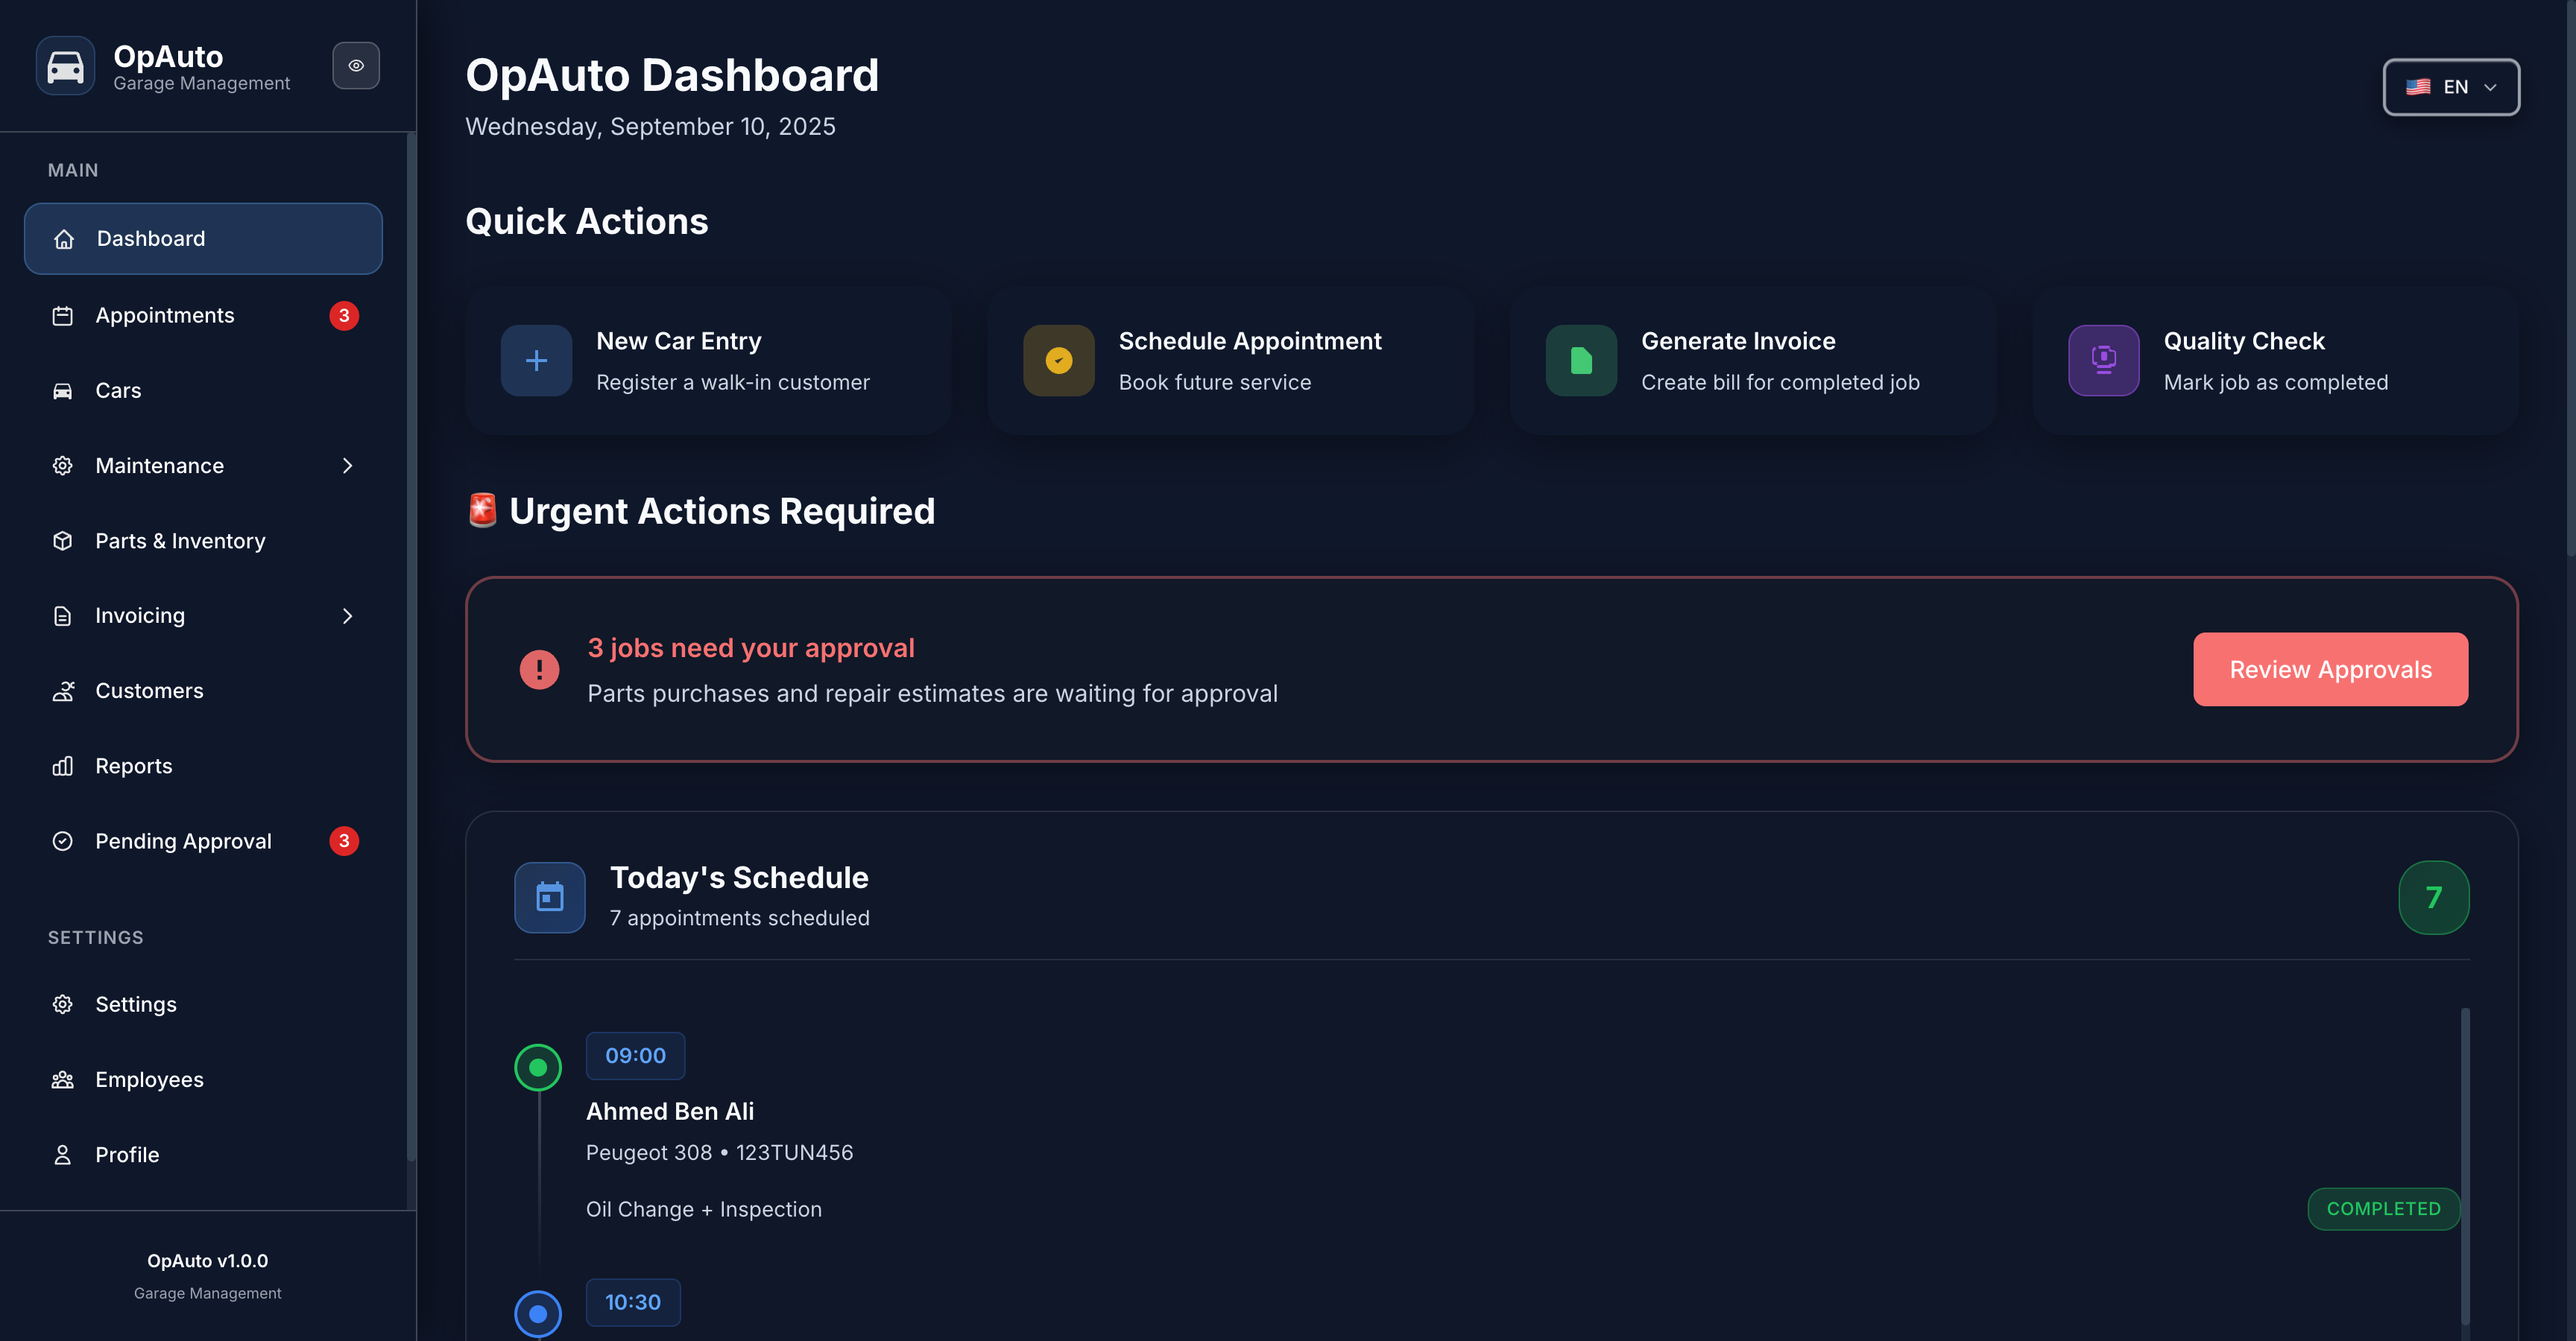
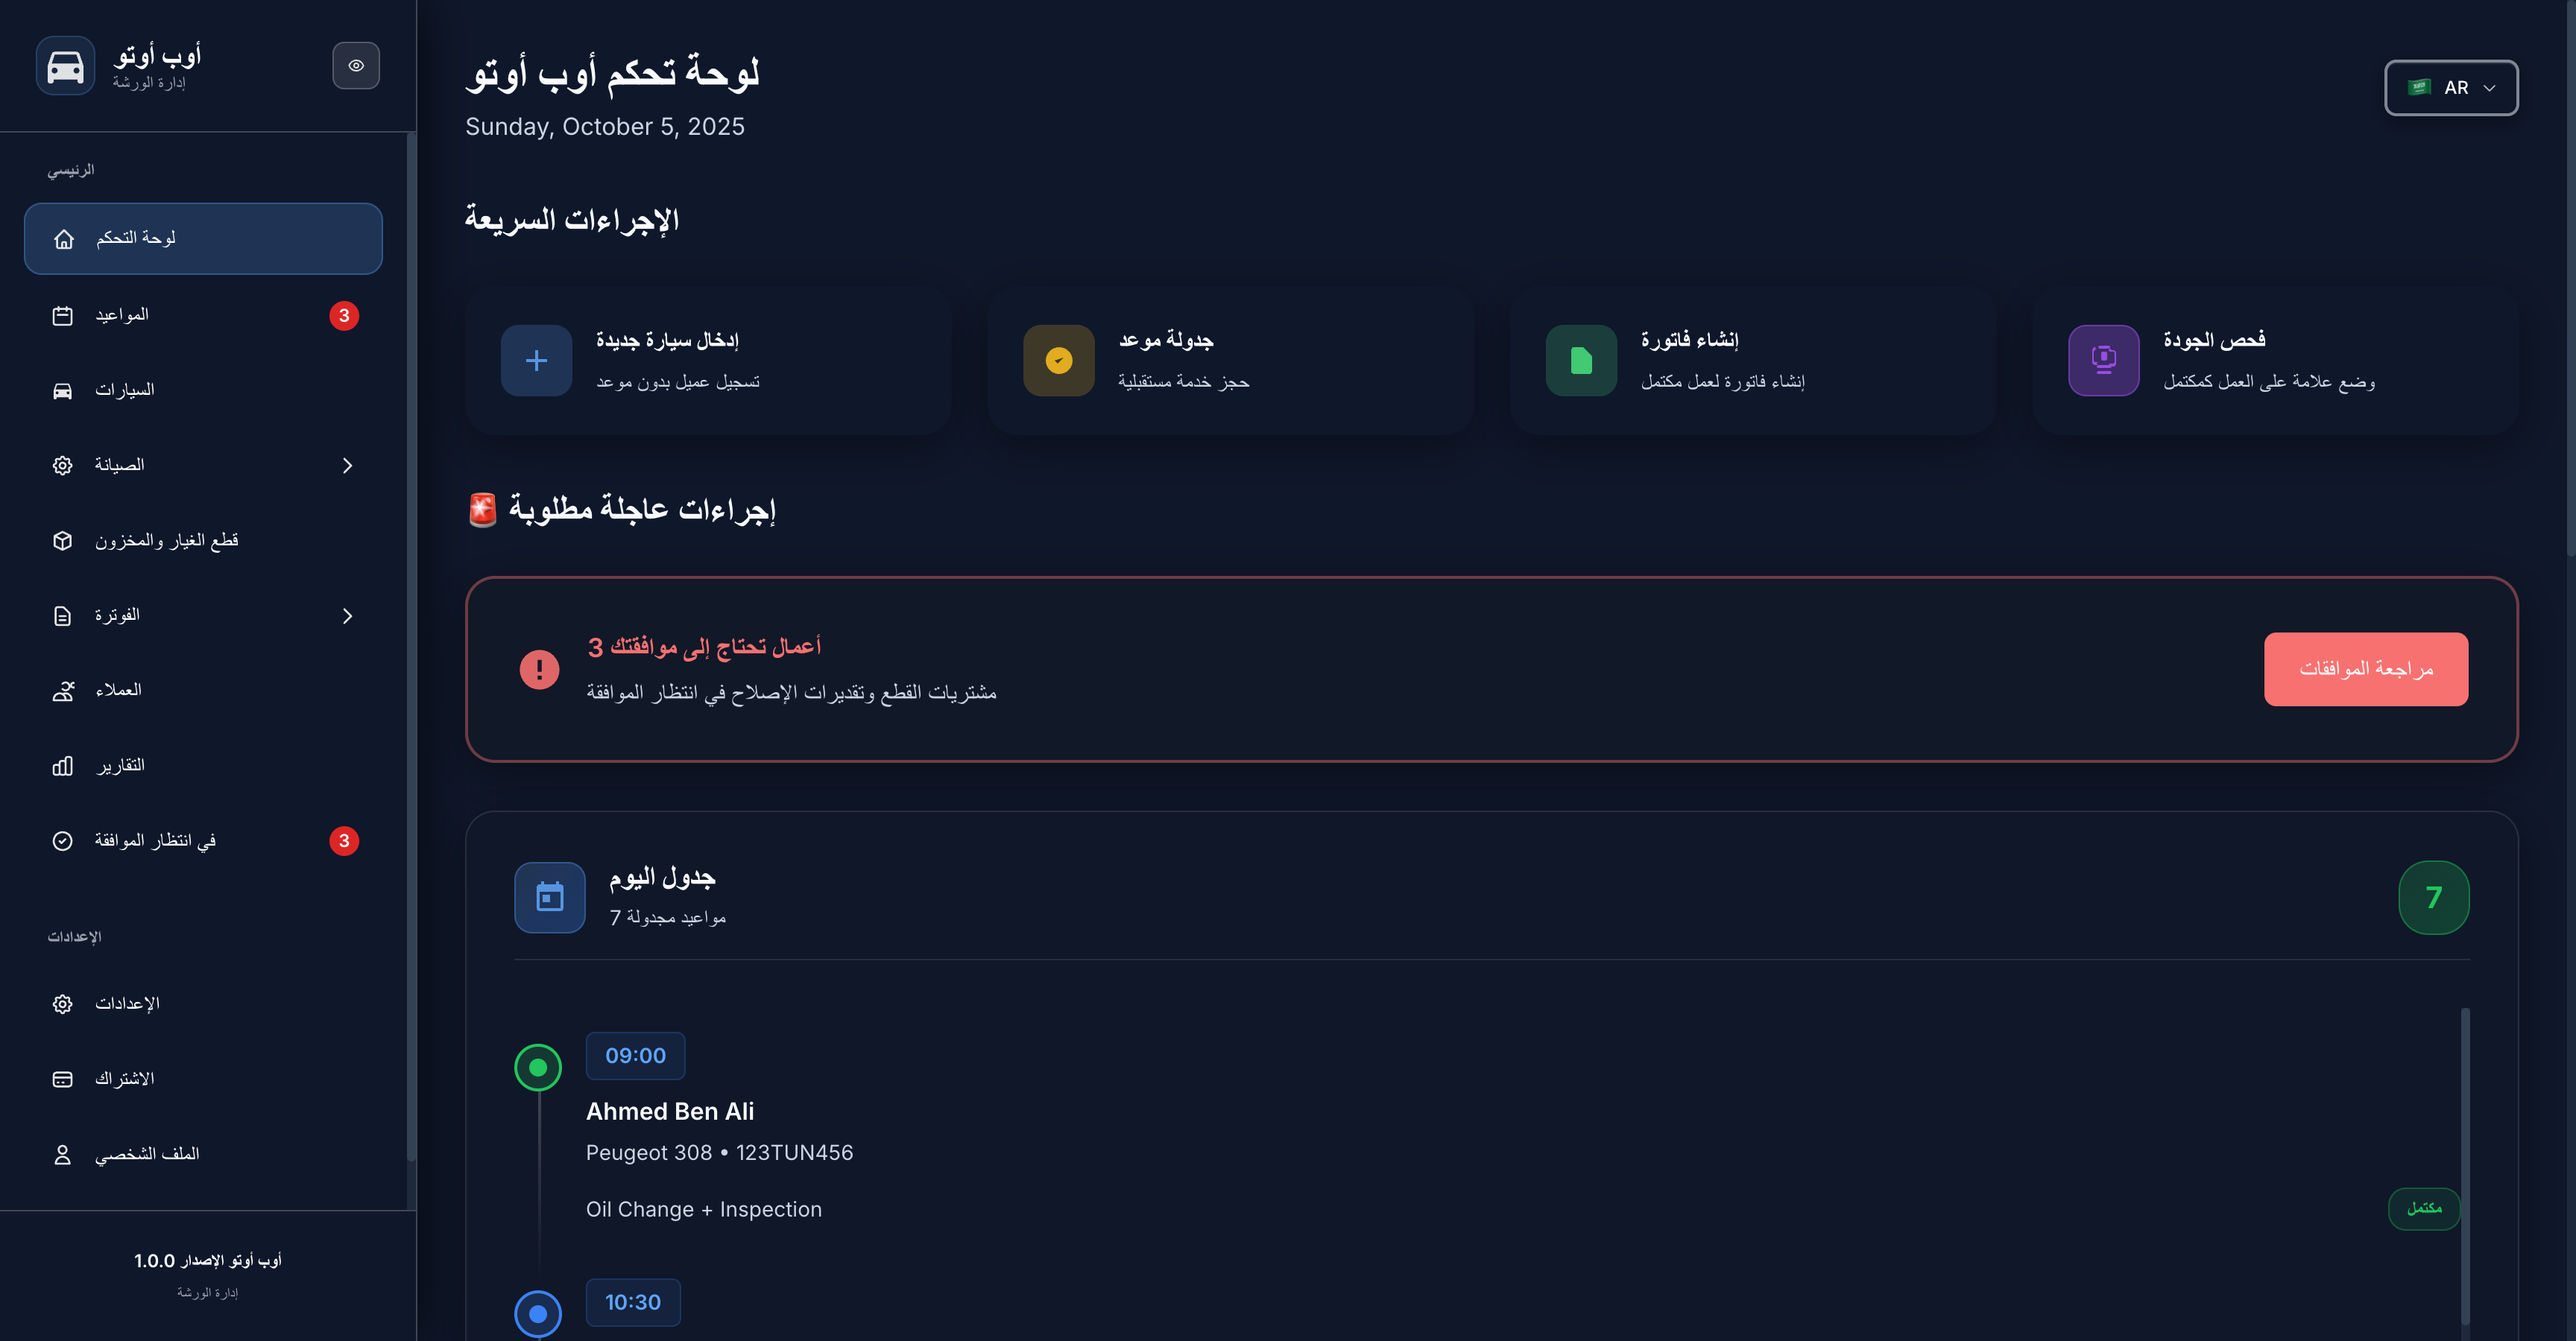
docs: update README with tier-based features and new screenshots
- Add subscription tier structure (Solo, Starter, Professional)
- Include annual pricing for each tier
- Update feature list to show tier-specific capabilities
- Refresh screenshots with Arabic UI
- Reorganize features into core capabilities section

🤖 Generated with [Claude Code](https://claude.com/claude-code)

diff --git a/README.md b/README.md
@@ -67,82 +67,107 @@
 
 ## ✨ Features
 
-### 🏠 **Intelligent Dashboard**
-- **Real-time metrics** - Live garage performance indicators
-- **Today's schedule** - Complete appointment timeline
-- **Active job monitoring** - Progress tracking with visual indicators
-- **Quick actions** - One-click access to common tasks
-- **Urgent alerts** - Approval requests and critical notifications
+OpAuto offers three subscription tiers to match your garage's needs:
 
-### 🚗 **Vehicle Management**
-- **Complete car profiles** - Registration with customer linking
-- **Service history** - Comprehensive maintenance records
-- **Status tracking** - Up-to-date, due soon, overdue indicators
-- **Smart filtering** - By make, model, status, and customer
-- **Maintenance scheduling** - Direct appointment booking
+### 🔵 **SOLO Tier** - 500 TND/year
+*Perfect for independent mechanics and single-owner garages*
 
-### 🔧 **Maintenance Operations**
-- **Job lifecycle management** - From creation to completion
-- **Multi-status workflow** - Waiting, in-progress, approval, completed
-- **Progress tracking** - Real-time job completion percentages
-- **Photo attachments** - Visual documentation support
-- **Priority levels** - Low, medium, high, urgent classification
+- ✅ **1 user account** - Owner-only access
+- ✅ **Up to 50 cars** in database
+- ✅ **Unlimited appointments** - Full scheduling system
+- ✅ **Text-based maintenance logs** - Service tracking
+- ✅ **Simple cash invoicing** - Basic billing
+- ✅ **Browser notifications** - Real-time alerts
+- ✅ **Basic reporting** - Daily/weekly summaries
+- ✅ **Mobile responsive interface**
+- ✅ **Multilingual support** - English, French, Arabic with RTL
 
-### 📅 **Appointment System**
-- **Smart calendar** - Daily, weekly, monthly views
-- **Touch-friendly scheduling** - Mobile-optimized interface
-- **Mechanic assignment** - Resource allocation tracking
-- **Status management** - Scheduled, in-progress, completed, delayed
-- **Swipe gestures** - Mobile navigation support
+---
 
-### 📦 **Inventory Management**
-- **Smart stock tracking** - Real-time inventory levels
-- **Low stock alerts** - Automated reorder notifications
-- **Category organization** - Engine, transmission, brakes, etc.
-- **Usage analytics** - Most used parts tracking
-- **Supplier management** - Vendor information and performance
+### 🟢 **STARTER Tier** ⭐ *Most Popular* - 2,000 TND/year
+*Ideal for small garages with 1-3 employees*
 
-### 🧾 **Financial Management**
-- **Professional invoicing** - Automated bill generation
-- **Multi-payment support** - Cash, card, bank transfer, check
-- **Payment tracking** - Status monitoring and overdue alerts
-- **Revenue analytics** - Daily, weekly, monthly reports
-- **Cost breakdown** - Parts and labor separation
+**Everything from SOLO, plus:**
+- ✅ **Up to 3 user accounts** - Owner + 2 employees
+- ✅ **Up to 200 cars** in database
+- ✅ **Internal approval system** - Cost control workflow
+- ✅ **Email notifications** - Daily summaries
+- ✅ **Customer history tracking** - Complete service records
+- ✅ **Multi-bay management** - Up to 2 service bays
+- ✅ **Cash invoicing with discounts**
+- ✅ **Service workflow** - Waiting → In Progress → Done
 
-### 👥 **Customer Relations**
-- **Complete profiles** - Personal and vehicle information
-- **Service history** - Comprehensive customer records
-- **Loyalty tiers** - Bronze, silver, gold, platinum
-- **Communication logs** - Interaction history tracking
-- **Status management** - Active, VIP, inactive, blocked
+---
 
-### 👨🔧 **Employee Management**
-- **Staff profiles** - Skills, certifications, experience
-- **Performance tracking** - Productivity and quality metrics
-- **Availability management** - Real-time status updates
-- **Workload balancing** - Fair task distribution
-- **Training records** - Certification and skill development
+### 🟣 **PROFESSIONAL Tier** - 6,000 TND/year
+*For medium to large garages with 4+ employees*
 
-### ✅ **Approval System**
-- **Multi-level workflow** - Parts purchasing and service approvals
-- **Priority classification** - Urgent to low priority requests
-- **Bulk operations** - Mass approval/rejection capabilities
-- **Request tracking** - Complete approval history
-- **Cost validation** - Estimated vs actual cost monitoring
+**Everything from STARTER, plus:**
+- ✅ **Unlimited user accounts** - Scale your team
+- ✅ **Unlimited cars** - No database limits
+- ✅ **Unlimited service bays** - Full capacity management
+- ✅ **Photo documentation** - Visual maintenance logs
+- ✅ **Parts inventory management** - Stock tracking & alerts
+- ✅ **Supplier database integration** - Vendor management
+- ✅ **SMS notifications** - Customer communications
+- ✅ **Advanced reporting & analytics** - Business insights
+- ✅ **Employee performance tracking** - Productivity metrics
+- ✅ **Data export** - Excel/PDF reports
+- ✅ **Priority email support** - Fast response times
+- ✅ **Custom invoice templates**
 
-### 📊 **Advanced Analytics**
-- **Financial reports** - Revenue, profit, cost analysis
-- **Operational metrics** - Efficiency and performance KPIs
-- **Customer analytics** - Retention and satisfaction metrics
-- **Inventory reports** - Stock optimization insights
-- **Interactive charts** - Visual data representation
+---
 
-### ⚙ **System Configuration**
-- **Garage setup** - Business information and branding
-- **Operational settings** - Hours, slots, capacity planning
-- **User management** - Access control and permissions
-- **Integration options** - Third-party service connections
-- **Backup and sync** - Data protection and recovery
+### 🎯 **Core Features Across All Tiers**
+
+#### 🏠 **Intelligent Dashboard**
+- Real-time garage performance indicators
+- Today's schedule with appointment timeline
+- Active job monitoring with progress tracking
+- Quick actions for common tasks
+- Urgent alerts for approval requests
+
+#### 🚗 **Vehicle Management**
+- Complete car profiles with customer linking
+- Service history and maintenance records
+- Status tracking (up-to-date, due soon, overdue)
+- Smart filtering by make, model, status, customer
+- Direct appointment booking from car profiles
+
+#### 🔧 **Maintenance Operations**
+- Job lifecycle management from creation to completion
+- Multi-status workflow tracking
+- Real-time progress percentages
+- Priority levels (low, medium, high, urgent)
+- Detailed service descriptions and notes
+
+#### 📅 **Appointment System**
+- Smart calendar with daily, weekly, monthly views
+- Touch-friendly mobile-optimized scheduling
+- Mechanic assignment and resource allocation
+- Status management and tracking
+- Swipe gestures for mobile navigation
+
+#### 🧾 **Financial Management**
+- Professional invoice generation
+- Multi-payment support (cash, card, transfer, check)
+- Payment status tracking
+- Revenue analytics and reports
+- Parts and labor cost breakdown
+
+#### 👥 **Customer Relations**
+- Complete customer profiles
+- Service history tracking
+- Loyalty tier management
+- Communication logs
+- Customer status management
+
+#### ⚙ **System Configuration**
+- Garage business information setup
+- Operational hours and capacity planning
+- User access control and permissions
+- Backup and data protection
+- Multi-language interface
 
 ---
 
